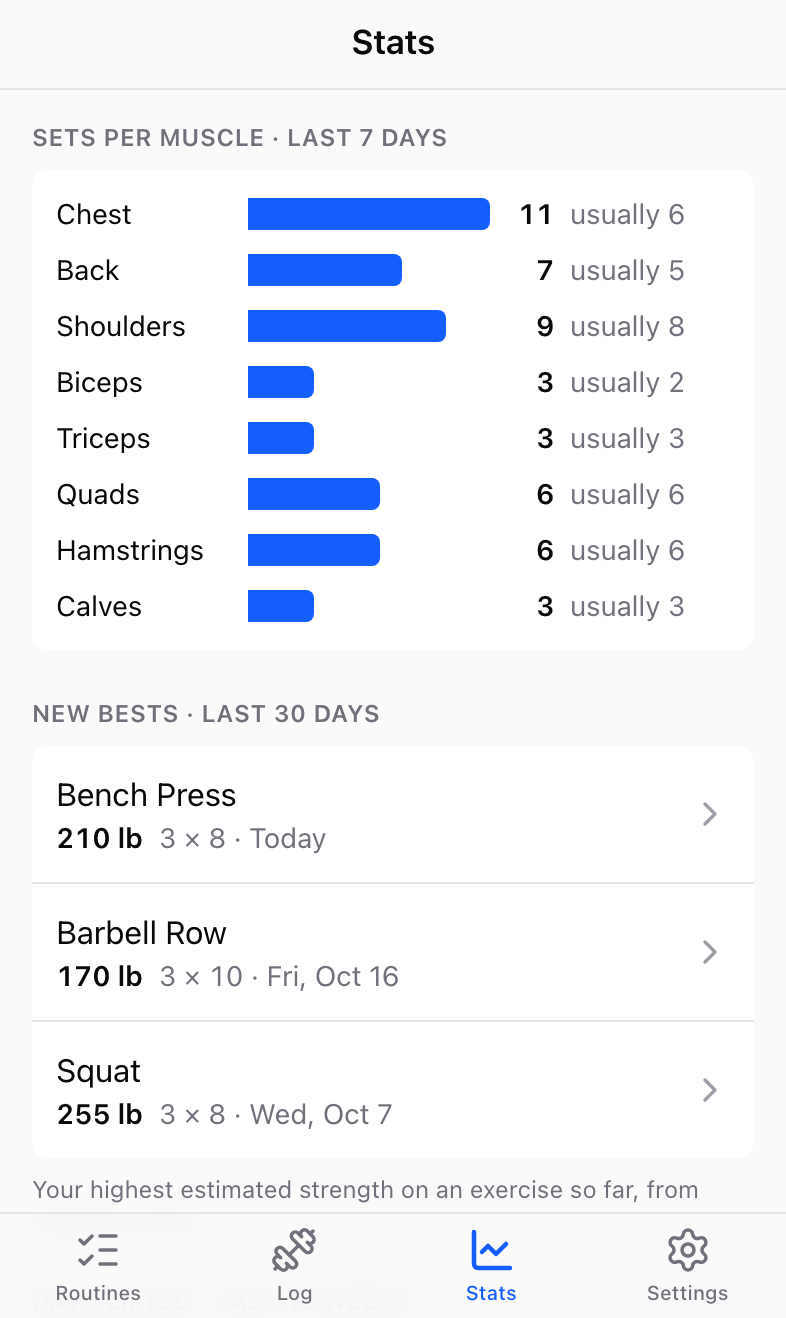
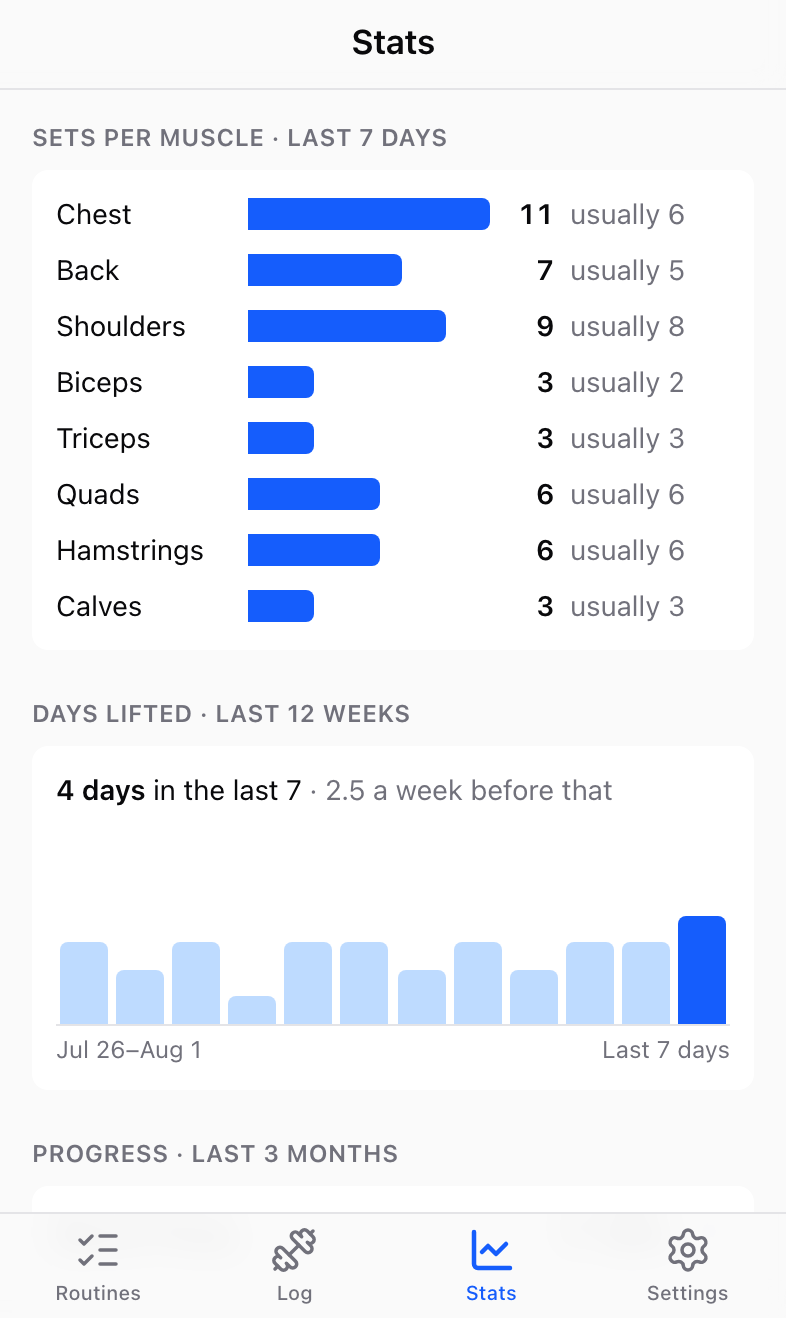
Stats overview: 3-month progress list instead of new bests
New bests would often be empty. Progress lists every exercise trained in
the last 3 months with its strength trend (the same fit as its Stats page
on 3M), biggest gain first, so stalls show too. Days lifted moves above
it so the two charts sit together. The overview query no longer needs
each exercise's earlier best; the trend label is shared as formatTrend().

diff --git a/src/lib/overview.ts b/src/lib/overview.ts
@@ -1,10 +1,10 @@
 // The Stats tab's overview (above the exercise list): sets per muscle group,
-// recent bests and days lifted. Pure, so it's tested; "today" is the device's
+// progress per exercise and days lifted. Pure, so it's tested; "today" is the device's
 // date, passed in by the client component.
 
 import type { MuscleGroup } from "./muscle-groups";
 import { MUSCLE_GROUPS } from "./muscle-groups";
-import { estimateOneRepMax } from "./stats";
+import { daysInRange, strengthTrend, summarizeDays, type Trend } from "./stats";
 
 export type OverviewEntry = {
   date: string;
@@ -14,20 +14,11 @@ export type OverviewEntry = {
   weight: number;
 };
 
-export type OverviewExercise = {
-  id: number;
-  name: string;
-  muscleGroup: MuscleGroup;
-  // Best estimated 1RM from entries older than the ones sent (see
-  // getOverview), or null if there are none.
-  earlierBest: number | null;
-};
+export type OverviewExercise = { id: number; name: string; muscleGroup: MuscleGroup };
 
-// How far back the entries go. Enough for 12 weeks of days lifted plus a
-// day either way for timezones; anything older only counts via earlierBest.
-export const OVERVIEW_DAYS = 90;
-
-export const BEST_WINDOW_DAYS = 30;
+// How far back the entries go: enough for 3 months of progress and 12 weeks
+// of days lifted, plus a day either way for timezones.
+export const OVERVIEW_DAYS = 100;
 const AVERAGE_WEEKS = 4;
 
 // "2026-10-17" plus n days (n may be negative).
@@ -76,38 +67,28 @@ export function daysLiftedByWeek(entries: OverviewEntry[], today: string, weeks 
   });
 }
 
-// Exercises whose best estimated 1RM in the last 30 days beats everything
-// before, newest first, each with the entry that did it. An exercise logged
-// for the first time in the window isn't a "best": there's nothing to beat.
-export function recentBests(
+export type ExerciseProgress = { exerciseId: number; name: string; trend: Trend };
+
+// Each exercise's strength trend over the last 3 months (the same as its
+// Stats page on 3M), biggest gain first. Exercises without enough data for a
+// trend (3 days over 2 weeks) are left out.
+export function progress(
   entries: OverviewEntry[],
   exercises: OverviewExercise[],
   today: string,
-) {
-  const windowStart = addDays(today, -(BEST_WINDOW_DAYS - 1));
-  const before = new Map<number, number>();
-  const inWindow = new Map<number, { entry: OverviewEntry; strength: number }>();
+): ExerciseProgress[] {
+  const byExercise = new Map<number, OverviewEntry[]>();
   for (const entry of entries) {
     if (entry.date > today) continue;
-    const strength = estimateOneRepMax(entry.weight, entry.reps);
-    if (entry.date < windowStart) {
-      before.set(entry.exerciseId, Math.max(before.get(entry.exerciseId) ?? 0, strength));
-      continue;
-    }
-    const top = inWindow.get(entry.exerciseId);
-    // Ties go to the later day: that's when it was matched most recently.
-    if (!top || strength > top.strength || (strength === top.strength && entry.date > top.entry.date)) {
-      inWindow.set(entry.exerciseId, { entry, strength });
-    }
+    const list = byExercise.get(entry.exerciseId);
+    if (list) list.push(entry);
+    else byExercise.set(entry.exerciseId, [entry]);
   }
-
   return exercises
     .flatMap((exercise) => {
-      const top = inWindow.get(exercise.id);
-      const earlier = Math.max(before.get(exercise.id) ?? -1, exercise.earlierBest ?? -1);
-      if (!top || earlier < 0 || top.strength <= earlier + 1e-9) return [];
-      const { date, sets, reps, weight } = top.entry;
-      return [{ exerciseId: exercise.id, name: exercise.name, date, sets, reps, weight }];
+      const days = daysInRange(summarizeDays(byExercise.get(exercise.id) ?? []), "3M", today);
+      const trend = strengthTrend(days);
+      return trend ? [{ exerciseId: exercise.id, name: exercise.name, trend }] : [];
     })
-    .sort((a, b) => b.date.localeCompare(a.date) || a.name.localeCompare(b.name));
+    .sort((a, b) => b.trend.change - a.trend.change || a.name.localeCompare(b.name));
 }

diff --git a/src/components/stats/stats-overview.tsx b/src/components/stats/stats-overview.tsx
@@ -4,17 +4,16 @@ import { ChevronRight } from "lucide-react";
 import Link from "next/link";
 import { useState } from "react";
 
-import { EntryText } from "@/components/entries/entry-text";
 import type { Overview } from "@/lib/entries";
-import { formatDay } from "@/lib/entry-format";
 import { MUSCLE_GROUP_LABELS, type MuscleGroup } from "@/lib/muscle-groups";
 import {
   addDays,
-  BEST_WINDOW_DAYS,
   daysLiftedByWeek,
-  recentBests,
+  progress,
   setsByMuscle,
+  type ExerciseProgress,
 } from "@/lib/overview";
+import { formatTrend } from "@/lib/stats";
 import { useLocalToday } from "@/lib/use-local-today";
 
 const headingClass = "text-xs font-semibold tracking-wide text-zinc-500 uppercase";
@@ -48,8 +47,8 @@ export function StatsOverview({ overview }: { overview: Overview }) {
   return (
     <>
       <MuscleSets rows={setsByMuscle(overview.entries, muscleOf, today)} />
-      <RecentBests bests={recentBests(overview.entries, overview.exercises, today)} today={today} />
       <DaysLifted weeks={daysLiftedByWeek(overview.entries, today)} />
+      <Progress rows={progress(overview.entries, overview.exercises, today)} />
     </>
   );
 }
@@ -98,31 +97,34 @@ function MuscleSets({ rows }: { rows: { group: MuscleGroup; recent: number; aver
   );
 }
 
-function RecentBests({ bests, today }: { bests: ReturnType<typeof recentBests>; today: string }) {
+// Every exercise's 3-month strength trend, so stalls show as well as gains.
+function Progress({ rows }: { rows: ExerciseProgress[] }) {
   return (
     <section className="flex flex-col gap-2">
-      <h2 className={headingClass}>New bests · last {BEST_WINDOW_DAYS} days</h2>
-      {bests.length === 0 ? (
+      <h2 className={headingClass}>Progress · last 3 months</h2>
+      {rows.length === 0 ? (
         <p className={`${cardClass} text-sm text-zinc-500`}>
-          None in the last {BEST_WINDOW_DAYS} days.
+          Log an exercise on a few days over a couple of weeks to see its trend.
         </p>
       ) : (
         <ul className="divide-y divide-zinc-200 overflow-hidden rounded-lg bg-white dark:divide-zinc-800 dark:bg-zinc-900">
-          {bests.map((best) => (
-            <li key={best.exerciseId}>
+          {rows.map((row) => (
+            <li key={row.exerciseId}>
               <Link
-                href={`/stats/${best.exerciseId}`}
+                href={`/stats/${row.exerciseId}`}
                 className="flex items-center gap-3 px-3 py-3 active:bg-zinc-100 dark:active:bg-zinc-800"
               >
-                <span className="min-w-0 flex-1">
-                  <span className="block truncate text-zinc-950 dark:text-zinc-50">{best.name}</span>
-                  <span className="block text-sm">
-                    <EntryText entry={best} />
-                    <span className="text-zinc-500">
-                      {" · "}
-                      {best.date === today ? "Today" : formatDay(best.date, today)}
-                    </span>
-                  </span>
+                <span className="min-w-0 flex-1 truncate text-zinc-950 dark:text-zinc-50">
+                  {row.name}
+                </span>
+                <span
+                  className={`shrink-0 tabular-nums ${
+                    row.trend.direction === "flat"
+                      ? "text-zinc-500"
+                      : "font-semibold text-zinc-950 dark:text-zinc-50"
+                  }`}
+                >
+                  {formatTrend(row.trend)}
                 </span>
                 <ChevronRight className="size-5 shrink-0 text-zinc-400" aria-hidden />
               </Link>
@@ -131,7 +133,7 @@ function RecentBests({ bests, today }: { bests: ReturnType<typeof recentBests>; 
         </ul>
       )}
       <p className="text-xs text-zinc-500">
-        Your highest estimated strength on an exercise so far, from weight or reps.
+        Change in estimated strength, from weight and reps together.
       </p>
     </section>
   );

diff --git a/src/lib/overview.test.ts b/src/lib/overview.test.ts
@@ -4,12 +4,11 @@ import type { MuscleGroup } from "./muscle-groups";
 import {
   addDays,
   daysLiftedByWeek,
-  recentBests,
+  progress,
   setsByMuscle,
   type OverviewEntry,
   type OverviewExercise,
 } from "./overview";
-import { estimateOneRepMax } from "./stats";
 
 const TODAY = "2026-10-17";
 
@@ -17,8 +16,8 @@ function entry(date: string, exerciseId: number, weight: number, reps = 5, sets:
   return { date, exerciseId, weight, reps, sets } satisfies OverviewEntry;
 }
 
-function exercise(id: number, earlierBest: number | null = null): OverviewExercise {
-  return { id, name: `Exercise ${id}`, muscleGroup: "chest", earlierBest };
+function exercise(id: number): OverviewExercise {
+  return { id, name: `Exercise ${id}`, muscleGroup: "chest" };
 }
 
 describe("addDays", () => {
@@ -79,38 +78,49 @@ describe("daysLiftedByWeek", () => {
   });
 });
 
-describe("recentBests", () => {
-  it("lists exercises that beat their earlier best in the last 30 days, newest first", () => {
-    const bests = recentBests(
+describe("progress", () => {
+  it("gives each exercise's 3-month trend, biggest gain first", () => {
+    const rows = progress(
       [
-        // 1: earlier best in the data (Sep 1), beaten twice; the higher one counts.
-        entry("2026-09-01", 1, 200),
-        entry("2026-10-01", 1, 205),
-        entry("2026-10-08", 1, 210),
-        // 2: only matched, not beaten.
-        entry("2026-09-01", 2, 100),
-        entry("2026-10-10", 2, 100),
-        // 3: beats an earlierBest from before the data, by reps at the same weight.
-        entry("2026-10-12", 3, 100, 8),
-        // 4: first time logged; nothing to beat.
-        entry("2026-10-15", 4, 50),
+        // 1: up 10% over the 3 months.
+        entry("2026-08-01", 1, 200),
+        entry("2026-09-10", 1, 210),
+        entry("2026-10-15", 1, 220),
+        // 2: flat.
+        entry("2026-08-01", 2, 100),
+        entry("2026-09-10", 2, 100),
+        entry("2026-10-15", 2, 100),
+        // 3: down.
+        entry("2026-08-01", 3, 100),
+        entry("2026-09-10", 3, 95),
+        entry("2026-10-15", 3, 90),
+        // 4: only two days, not enough for a trend.
+        entry("2026-09-10", 4, 50),
+        entry("2026-10-15", 4, 60),
       ],
-      [exercise(1), exercise(2), exercise(3, estimateOneRepMax(100, 5)), exercise(4)],
+      [exercise(1), exercise(2), exercise(3), exercise(4)],
       TODAY,
     );
-    expect(bests.map((b) => [b.exerciseId, b.date, b.weight, b.reps])).toEqual([
-      [3, "2026-10-12", 100, 8],
-      [1, "2026-10-08", 210, 5],
+    expect(rows.map((r) => [r.exerciseId, r.trend.direction])).toEqual([
+      [1, "up"],
+      [2, "flat"],
+      [3, "down"],
     ]);
+    expect(rows[0].trend.change).toBeCloseTo(0.1);
   });
 
-  it("uses the 30-day window ending today", () => {
-    const bests = recentBests(
-      [entry("2026-09-17", 1, 100), entry("2026-09-18", 1, 110)],
+  it("only looks at the last 3 months", () => {
+    // A big drop before Jul 17 doesn't count; after it, it's flat.
+    const rows = progress(
+      [
+        entry("2026-06-01", 1, 300),
+        entry("2026-08-01", 1, 200),
+        entry("2026-09-10", 1, 200),
+        entry("2026-10-15", 1, 200),
+      ],
       [exercise(1)],
       TODAY,
     );
-    // Sep 18 is the first day of the window; Sep 17 is before it.
-    expect(bests.map((b) => b.date)).toEqual(["2026-09-18"]);
+    expect(rows.map((r) => r.trend.direction)).toEqual(["flat"]);
   });
 });

diff --git a/src/lib/entries.ts b/src/lib/entries.ts
@@ -1,6 +1,6 @@
 import "server-only";
 
-import { and, asc, desc, eq, gte, max, sql } from "drizzle-orm";
+import { and, asc, desc, eq, gte } from "drizzle-orm";
 
 import { getDb } from "@/db";
 import { entries, exercises } from "@/db/schema";
@@ -50,13 +50,13 @@ export async function listRecentExercises(userId: string, limit?: number) {
 export type RecentExercise = Awaited<ReturnType<typeof listRecentExercises>>[number];
 
 // Data for the Stats overview: the last OVERVIEW_DAYS of entries (by the
-// server's date; the client picks its own "today" within them), and every
-// exercise the user has logged with its best estimated 1RM from before that.
-// The estimate matches estimateOneRepMax() in stats.ts.
+// server's date; the client picks its own "today" within them) and the
+// exercises they're for.
 export async function getOverview(userId: string) {
   const since = addDays(localToday(), -OVERVIEW_DAYS);
+  const recent = and(eq(entries.userId, userId), gte(entries.date, since));
   const db = getDb();
-  const [recent, logged] = await Promise.all([
+  const [rows, logged] = await Promise.all([
     db
       .select({
         date: entries.date,
@@ -66,24 +66,14 @@ export async function getOverview(userId: string) {
         weight: entries.weight,
       })
       .from(entries)
-      .where(and(eq(entries.userId, userId), gte(entries.date, since))),
+      .where(recent),
     db
-      .select({
-        id: exercises.id,
-        name: exercises.name,
-        muscleGroup: exercises.muscleGroup,
-        earlierBest: max(
-          sql`case when ${entries.date} < ${since} then
-            case when ${entries.reps} <= 1 then ${entries.weight}
-            else ${entries.weight} * (1 + ${entries.reps} / 30.0) end end`,
-        ).mapWith(Number),
-      })
+      .selectDistinct({ id: exercises.id, name: exercises.name, muscleGroup: exercises.muscleGroup })
       .from(entries)
       .innerJoin(exercises, eq(exercises.id, entries.exerciseId))
-      .where(eq(entries.userId, userId))
-      .groupBy(exercises.id),
+      .where(recent),
   ]);
-  return { entries: recent, exercises: logged };
+  return { entries: rows, exercises: logged };
 }
 
 export type Overview = Awaited<ReturnType<typeof getOverview>>;

diff --git a/src/components/stats/stats-view.tsx b/src/components/stats/stats-view.tsx
@@ -8,6 +8,7 @@ import {
   daysInRange,
   rangeStart,
   RANGES,
+  formatTrend,
   strengthTrend,
   summarizeDays,
   toDayNumber,
@@ -28,15 +29,7 @@ const RANGE_NAMES: Record<Range, string> = {
 
 function trendText(trend: Trend | null) {
   if (!trend) return { value: "—", note: "Not enough data yet" };
-  const percent = `${Math.round(Math.abs(trend.change) * 100)}%`;
-  switch (trend.direction) {
-    case "up":
-      return { value: `↑ ${percent}`, note: "Est. strength" };
-    case "down":
-      return { value: `↓ ${percent}`, note: "Est. strength" };
-    case "flat":
-      return { value: "→ Flat", note: "Est. strength" };
-  }
+  return { value: formatTrend(trend), note: "Est. strength" };
 }
 
 function Tile({ label, value, note }: { label: string; value: string; note: string }) {

diff --git a/src/lib/stats.ts b/src/lib/stats.ts
@@ -93,6 +93,14 @@ export function strengthTrend(days: Day[]): Trend | null {
   return { direction, change };
 }
 
+// "↑ 6%", "↓ 3%" or "→ Flat".
+export function formatTrend(trend: Trend) {
+  const percent = `${Math.round(Math.abs(trend.change) * 100)}%`;
+  if (trend.direction === "up") return `↑ ${percent}`;
+  if (trend.direction === "down") return `↓ ${percent}`;
+  return "→ Flat";
+}
+
 // Heaviest top set (ties: more reps, then most recent).
 export function bestDay(days: Day[]): Day | undefined {
   let best: Day | undefined;

diff --git a/docs/how-it-works.md b/docs/how-it-works.md
@@ -190,7 +190,7 @@ Built-in exercises can't be edited or deleted.
 
 <table>
   <tr>
-    <td><img src="screenshots/stats-list.png" width="260" alt="Stats tab: sets per muscle, new bests and days lifted, above your exercises"></td>
+    <td><img src="screenshots/stats-list.png" width="260" alt="Stats tab: sets per muscle, progress and days lifted, above your exercises"></td>
     <td><img src="screenshots/stats.png" width="260" alt="Bench press stats over two years"></td>
     <td><img src="screenshots/stats-day.png" width="260" alt="Tapping a day on the chart"></td>
     <td><img src="screenshots/stats-dark.png" width="260" alt="Barbell curl trending down, in dark mode"></td>
@@ -209,11 +209,11 @@ The top of the **Stats** tab shows what you've done lately across all exercises:
   "usually", your weekly average over the 4 weeks before, so a muscle you've
   been skipping stands out. Each exercise counts toward its one muscle group (bench
   press is chest), and every logged set counts.
-- **New bests**: exercises where you beat your best estimated strength (see
-  below) in the last 30 days, from more weight or more reps. Tap one for its
-  stats.
 - **Days lifted**: how many days you trained in each of the last 12 weeks. Tap a
   week to see its dates.
+- **Progress**: each exercise you've trained in the last 3 months with its
+  trend over that time (↑ 6%, → Flat, ↓ 3%; see **Trend** below), biggest
+  gain first, so stalls show as well as gains. Tap one for its stats.
 
 Below that it lists the exercises you've logged (most recent first, with what
 you did last), since those are the ones with something to show. Pick one, or
